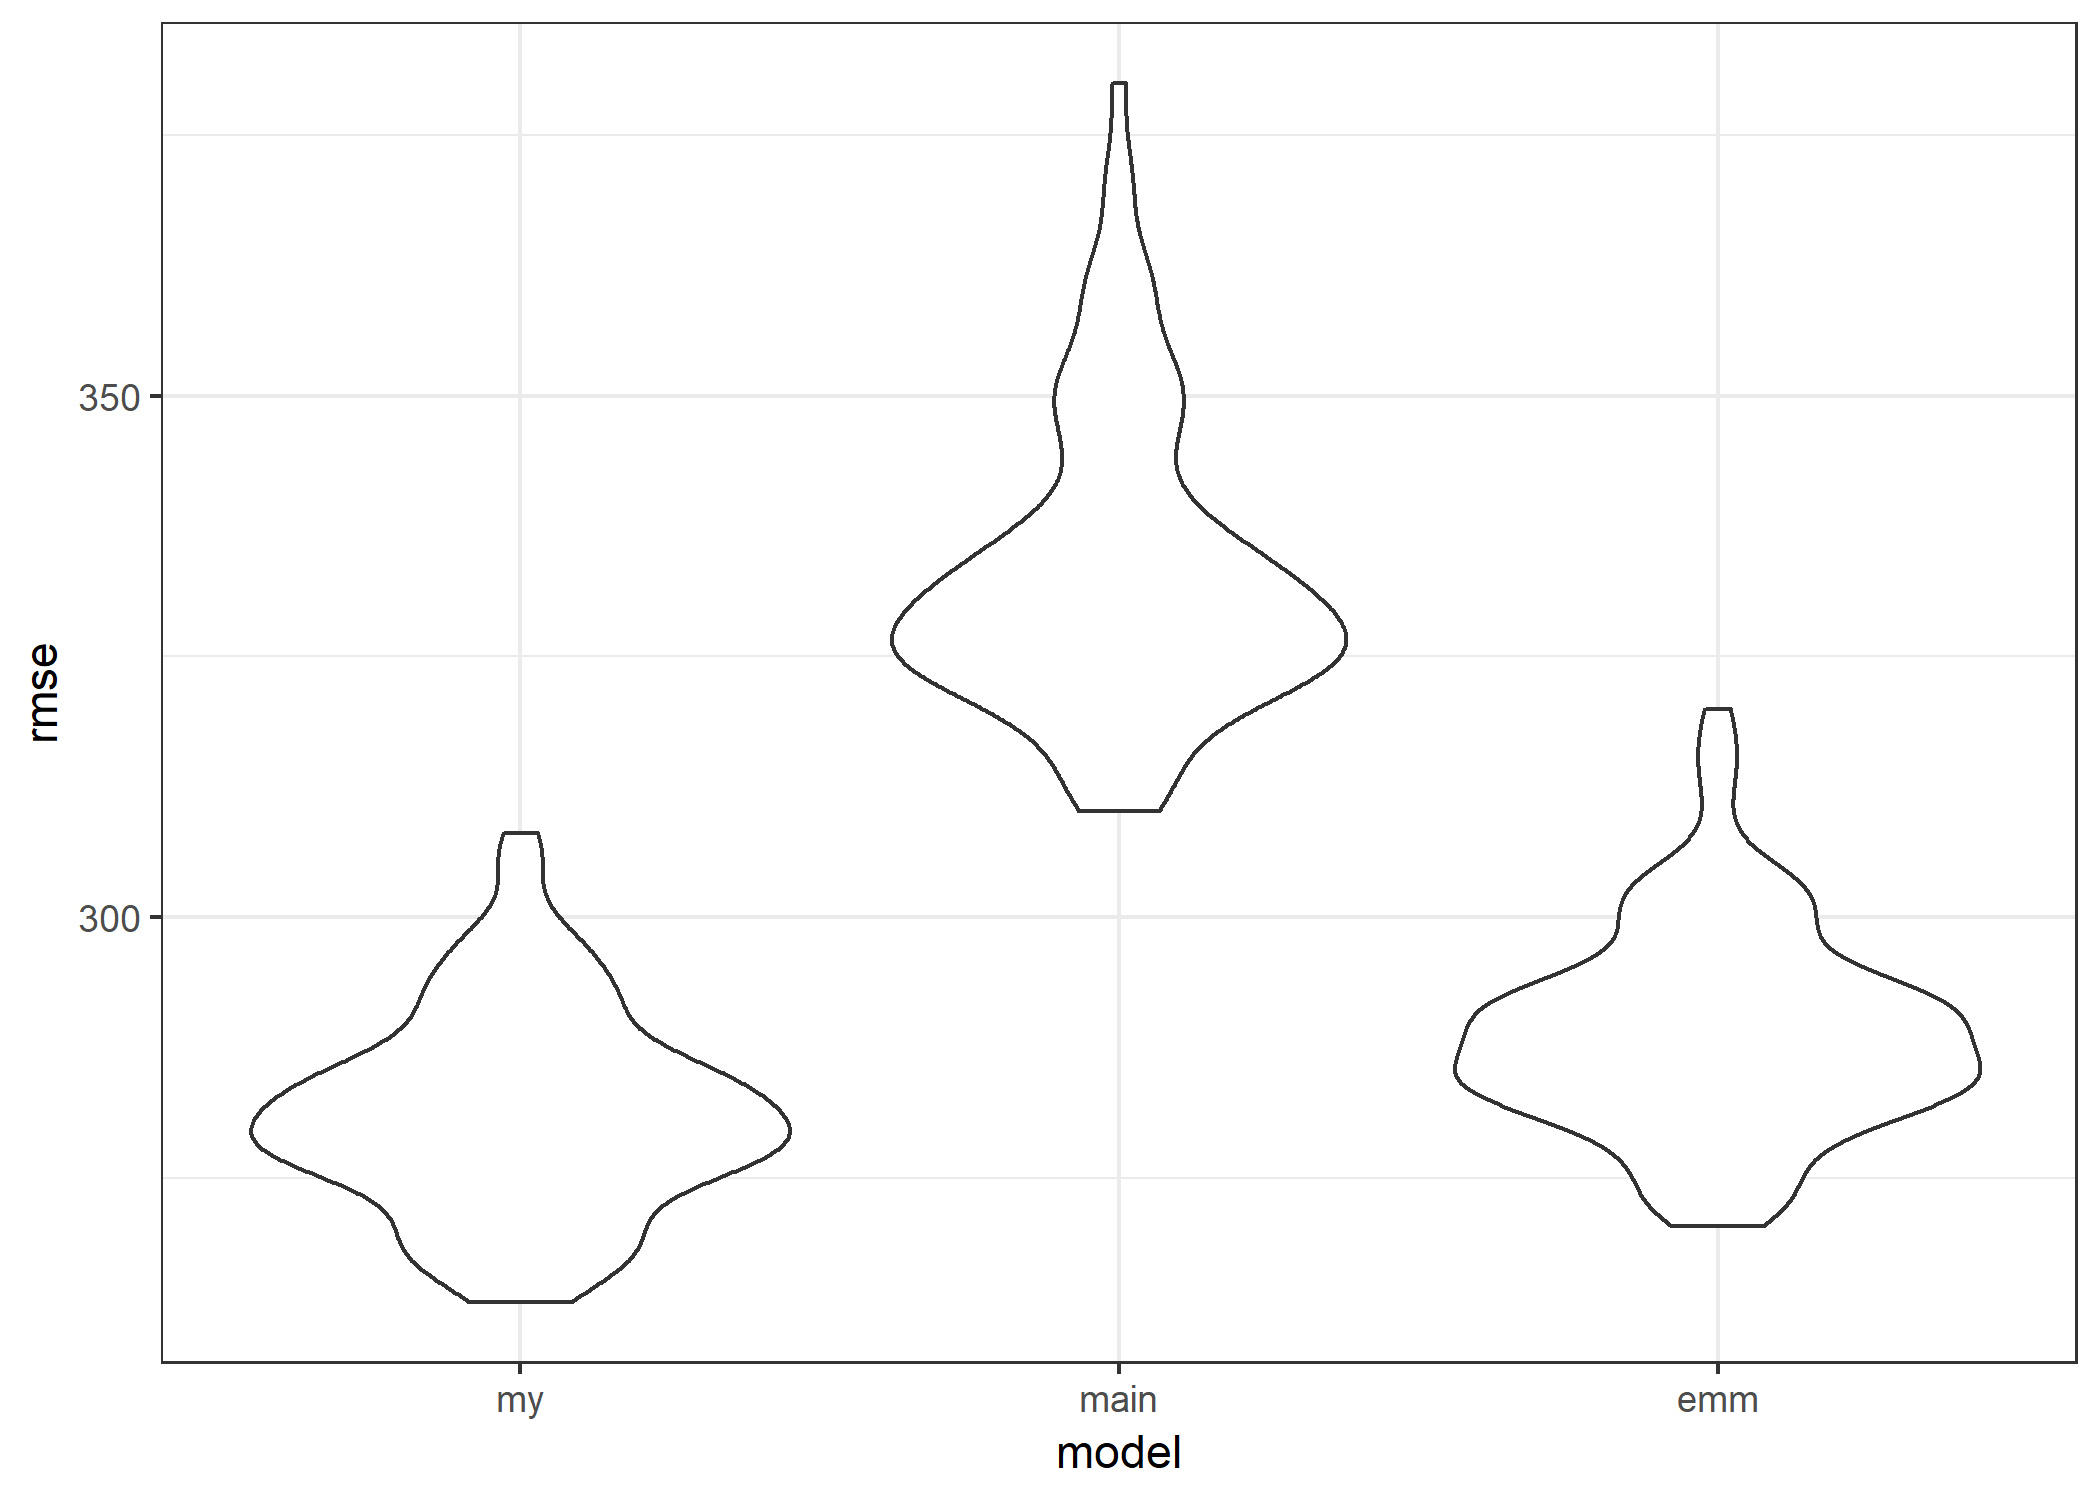
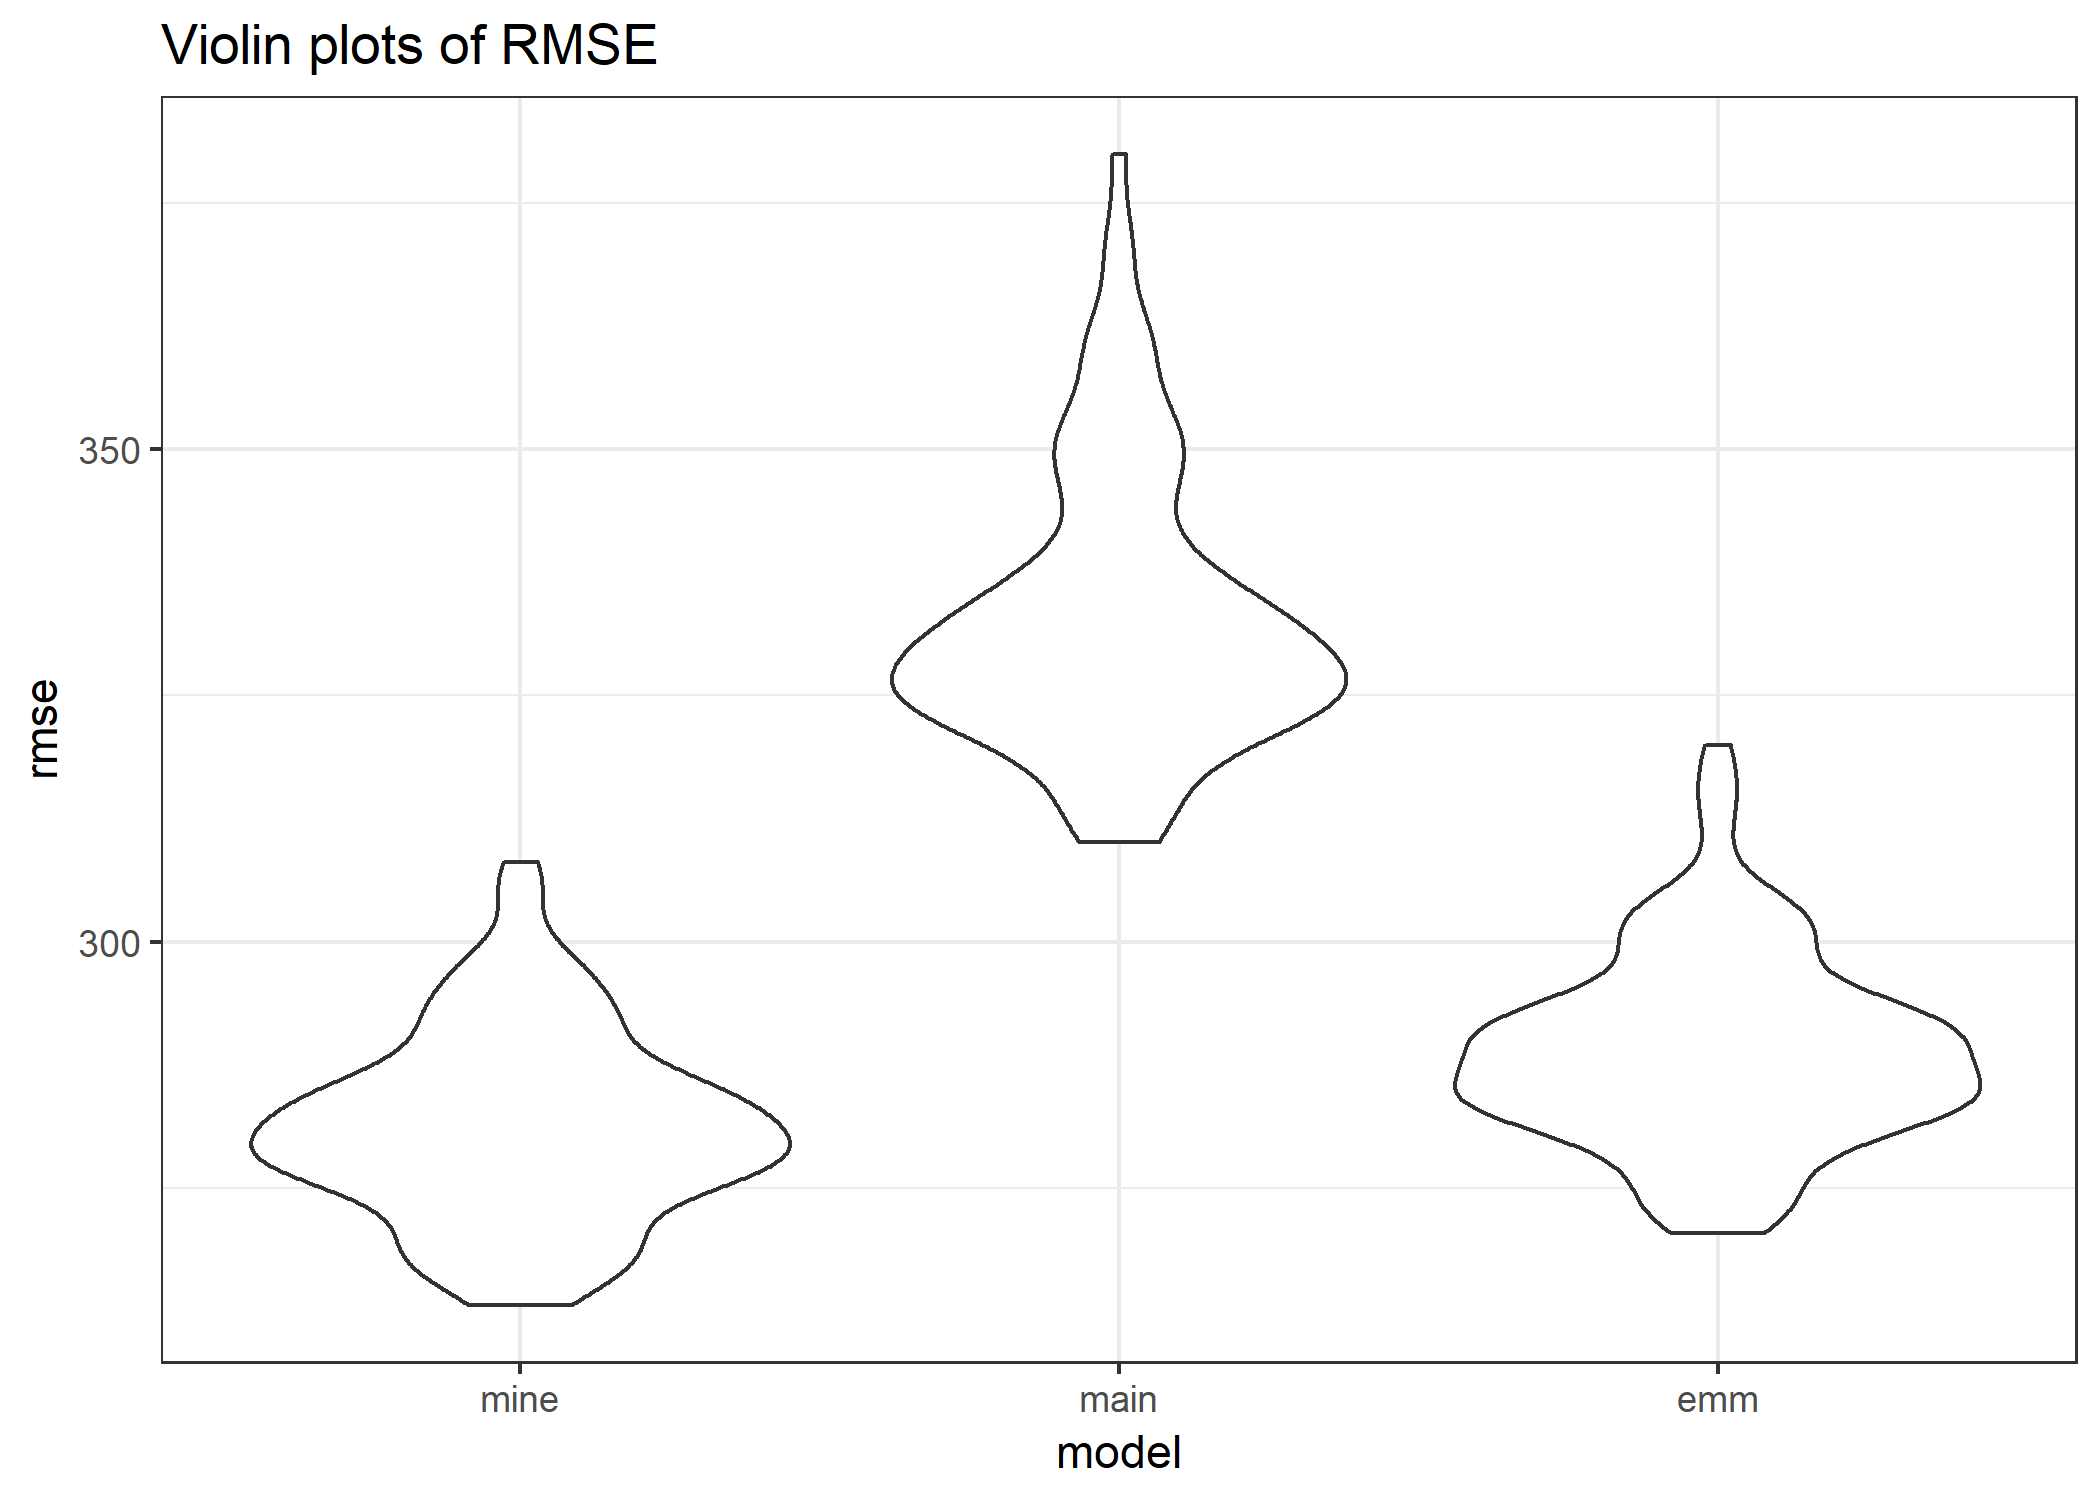
organizational updates

diff --git a/p8105_hw6_ntw2117.md b/p8105_hw6_ntw2117.md
@@ -79,9 +79,11 @@ murder %>%
 
 <img src="p8105_hw6_ntw2117_files/figure-markdown_github/unnamed-chunk-1-1.png" width="70%" style="display: block; margin: auto;" />
 
-Boston has the lowest odds ratio of all the cities analzed indicating that they are the least likely to solve a non-White homicide compared to how likely they are to solve a White homicide; Boston is followed by Omaha, Nebraska and Oakland, California. Most cities appear to trend in this direction. However, about half have confidence intervals that include one. Tampa, Florida and Birmingham, Alabama are the only two cities who have estimated odds ratios greater than one, indicating the odds of a non-White homicide being solved are greater than a White homicide being solved. However, both estimates have very wide confidence intervals and are thus non-significant. The width of the confidence intervals actually tells us some important information as well. The cities with narrow intervals are cities with a large amount of homicides while the cities with wide intervals have fewer.
+Boston has the lowest odds ratio of all the cities analyzed indicating that they are the least likely to solve a non-White homicide compared to how likely they are to solve a White homicide; Boston is followed by Omaha, Nebraska and Oakland, California. Most cities appear to trend in this direction. However, about half have confidence intervals that include one. Tampa, Florida and Birmingham, Alabama are the only two cities who have estimated odds ratios greater than one, indicating the odds of a non-White homicide being solved are greater than a White homicide being solved. However, both estimates have very wide confidence intervals and are thus non-significant. The width of the confidence intervals actually tells us some important information as well. The cities with narrow intervals are cities with a large amount of homicides while the cities with wide intervals have fewer.
 
 ### Problem Two
+
+*importing and cleaning data*
 
 ``` r
 bweight <- read_csv("data/birthweight.csv") %>% 
@@ -99,6 +101,10 @@ bweight <- bweight %>%
          mrace = as.factor(mrace))
 ```
 
+After loading the data, I first checked for missing values and found that there were none. I then converted the baby's sex, father's race, the indicator of a malformation, and mother's race to factors.
+
+*Exploratory plots and analyses*
+
 ``` r
 # visual peek at birthweight
 dens <- bweight %>% 
@@ -113,6 +119,8 @@ wrap_elements(dens + box) + ggtitle("Histogram and boxplot of infant birthweight
 ```
 
 <img src="p8105_hw6_ntw2117_files/figure-markdown_github/density plot and box plot-1.png" width="80%" />
+
+Looking at a histogram and boxplot of infant birth weight, birth weight appears to be normally distributed. However, there seem to be many outliers.
 
 ``` r
 # dataset with only numeric variables
@@ -150,6 +158,8 @@ as.data.frame(corr) %>%
 # map(wt_num, make)
 ```
 
+*Model building*
+
 I chose a regression model based on a combination of hypothesized factors that influence birth weight as well as a data driven model building process. I first came up with 3 possible models: `hyp_mod`, `cor_mod`, and `comb_mod`. The hypothesis only model was based on variables that had more "clinical" significance (except baby sex which I included as a control variable); for example, the babies length and head circumference most likely influences the babies weight, however it is impossible to intervene and make the baby longer or have a larger head. As such, I chose family monthly income as an indicator of socioeconomic status, gestational age, the number of prior live births, the average number of cigarettes smoked during the pregnancy, and the amount of weight gained by the mother during the pregnancy. Obviously, there are other variables that could have been included in this model but I focused on limiting the number of predictors and being aware of possible collinearity issues. I also did not explore any interactions or non-linear models for reasons of interpretability.
 
 The second model I tested was simply based on numeric predictors that had a correlation coefficient whose absolute value with birth weight was greater than 0.20. By no means is this a great way of selecting variables but this did give an indication of numeric variables that possibly have a linear relationship with birth weight. I also wanted to avoid something like step-wise selection while also not using a more advanced method like LASSO which would require using a package not discussed in class. These variables were circumference of the baby's head, the length of the baby, gestational age, mother weight gain, and mother's weight at delivery.
@@ -179,12 +189,32 @@ cv_bweight %>%
   mutate(model = str_replace(model, "rmse_", ""),
          model = fct_inorder(model)) %>% 
   ggplot(aes(x = model, y = rmse)) + 
-  geom_violin()
+  geom_violin() + 
+  labs(title = "Violin plots of RMSE")
 ```
 
 <img src="p8105_hw6_ntw2117_files/figure-markdown_github/cross validation-1.png" width="65%" />
 
-Based on the violin plots of the RMSE calculated using the testing set of data among the three models, I chose the combination model as my final model.
+``` r
+cv_bweight %>%  
+  select(starts_with("rmse")) %>% 
+  gather(key = model, value = rmse) %>% 
+  mutate(model = str_replace(model, "rmse_", ""),
+         model = fct_inorder(model)) %>% 
+  group_by(model) %>% 
+  summarize(avg_rmse = mean(rmse)) %>% 
+  knitr::kable(digits = 3)
+```
+
+| model |  avg\_rmse|
+|:------|----------:|
+| hyp   |    447.904|
+| cor   |    282.426|
+| comb  |    279.478|
+
+*Final model*
+
+Based on the violin plots of the RMSE calculated using the testing set of data among the three models, I chose the combination model as my final model. It had the lowest average RMSE (279.48).
 
 ``` r
 # creating model using all data
@@ -197,22 +227,25 @@ bweight %>%
   add_residuals(comb_mod) %>% 
   ggplot(aes(x = pred, y = resid)) + 
   geom_point() + 
-  geom_smooth(se = FALSE)
+  geom_smooth(se = FALSE) + 
+  labs(title = "Predicted values vs. residuals plot for combination model")
 ```
 
 <img src="p8105_hw6_ntw2117_files/figure-markdown_github/going with comb model-1.png" width="65%" />
 
 The above scatter plot shows the relationship between predicted values and residuals for the final combination model. It appears that the model poorly predicts very low birth weights. It also appears the equality of variance assumption is not holding and that outliers/points with high influence are present.
 
+*Comparing with other models*
+
 ``` r
 cv_bweight2 <- crossv_mc(bweight, 100)
 
 cv_bweight2 <- cv_bweight2 %>% 
-  mutate(my_mod = map(train, ~lm(bwt ~ babysex + fincome + gaweeks + parity + smoken + wtgain + 
+  mutate(mine_mod = map(train, ~lm(bwt ~ babysex + fincome + gaweeks + parity + smoken + wtgain + 
                                        bhead + blength, data = .x)), 
          main_mod = map(train, ~lm(bwt ~ blength + gaweeks, data = .x)), 
          emm_mod = map(train, ~lm(bwt ~ (bhead + blength + babysex)^4, data = .x))) %>% 
-  mutate(rmse_my = map2_dbl(my_mod, test, ~rmse(model = .x, data = .y)),
+  mutate(rmse_mine = map2_dbl(mine_mod, test, ~rmse(model = .x, data = .y)),
          rmse_main = map2_dbl(main_mod, test, ~rmse(model = .x, data = .y)),
          rmse_emm = map2_dbl(emm_mod, test, ~rmse(model = .x, data = .y)))
 
@@ -222,9 +255,27 @@ cv_bweight2 %>%
   mutate(model = str_replace(model, "rmse_", ""),
          model = fct_inorder(model)) %>% 
   ggplot(aes(x = model, y = rmse)) + 
-  geom_violin()
+  geom_violin() + 
+  labs(title = "Violin plots of RMSE")
 ```
 
 <img src="p8105_hw6_ntw2117_files/figure-markdown_github/comparing to jeff models-1.png" width="65%" />
 
-The above figure presents violin plots for the RMSE for my proposed model, the main effects model, and the interaction model. Based on these plots, I would still chooose my model, however I might consider adding the interactions specified in the interaction model. It is important to note that I have not evaluated the signficance of any of these models or used another measures like AIC in making a decision.
+``` r
+cv_bweight2 %>%  
+  select(starts_with("rmse")) %>% 
+  gather(key = model, value = rmse) %>% 
+  mutate(model = str_replace(model, "rmse_", ""),
+         model = fct_inorder(model)) %>% 
+  group_by(model) %>% 
+  summarize(avg_rmse = mean(rmse)) %>% 
+  knitr::kable(digits = 3)
+```
+
+| model |  avg\_rmse|
+|:------|----------:|
+| mine  |    281.154|
+| main  |    333.144|
+| emm   |    288.990|
+
+The above figure presents violin plots for the RMSE for my proposed model, the main effects model, and the interaction model. Based on these plots, I would still choose my model, however I might consider adding the interactions specified in the interaction model. It is important to note that I have not evaluated the significance of any of these models or used another measures like AIC in making a decision.
